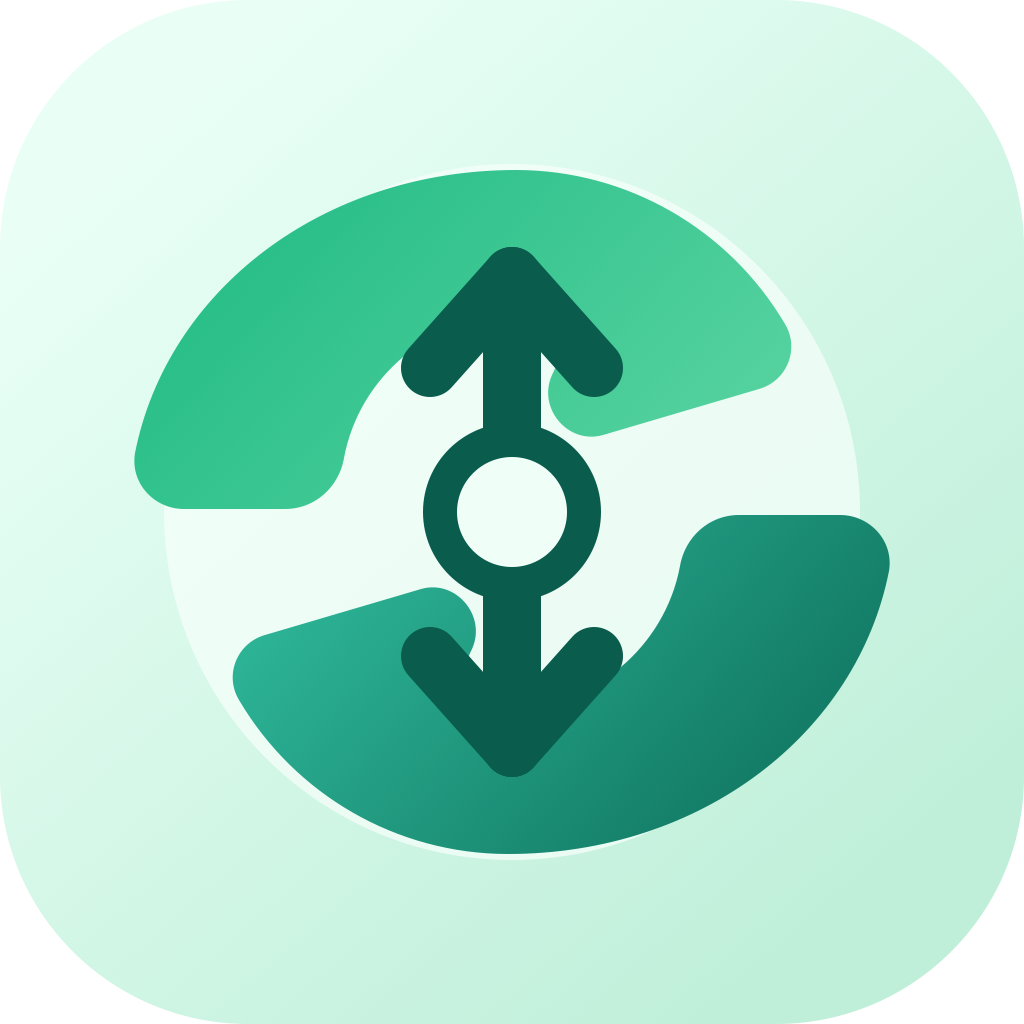
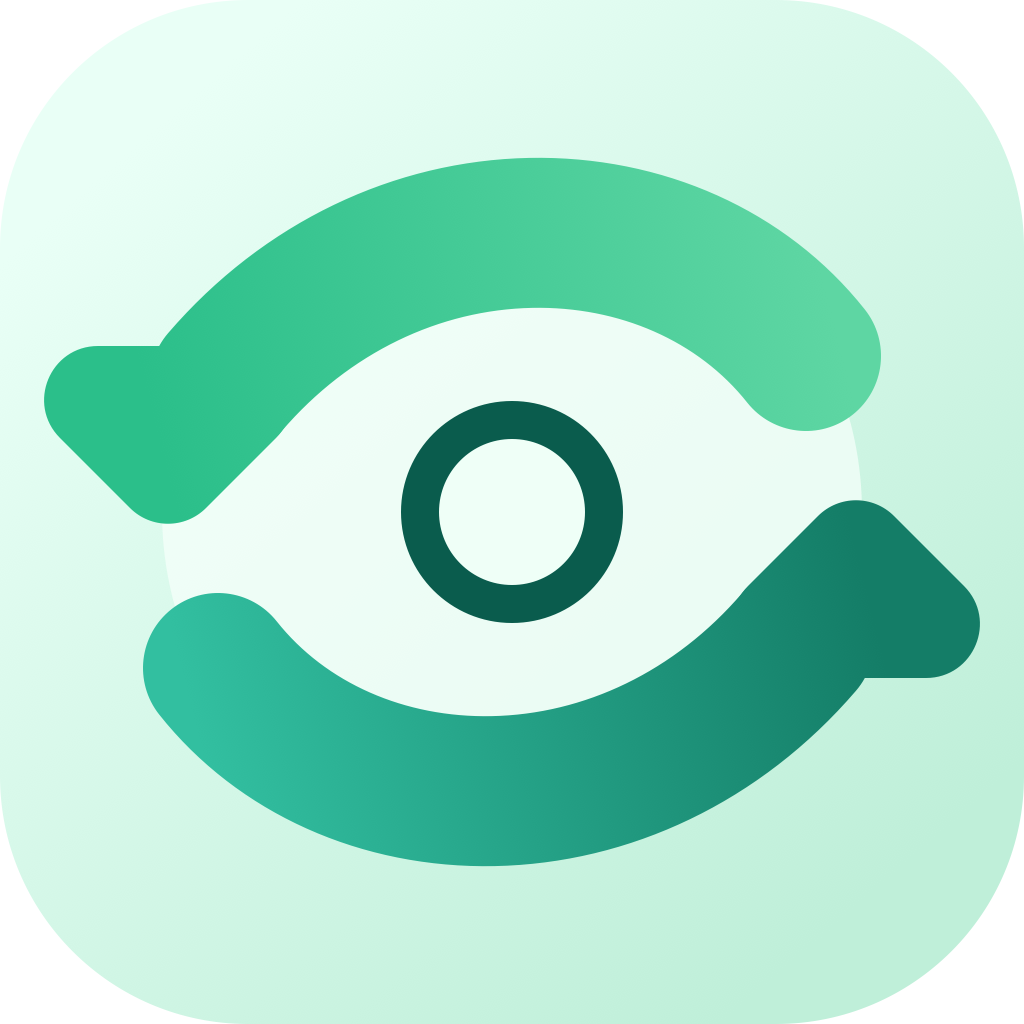
Update brand mark to horizontal transfer arrows

diff --git a/README.md b/README.md
@@ -81,4 +81,4 @@ PC/macOS/Windows, 모바일 네이티브, 웹앱/PWA 선택지는 [docs/platform
 
 ## 디자인 콘셉트
 
-앱 아이콘과 UI 색상 체계는 [docs/brand-design.md](docs/brand-design.md)에 정리했습니다. 기본 컨셉은 연한 초록색 둥근 아이콘, 태극형 양방향 흐름, 위/아래 화살표입니다.
+앱 아이콘과 UI 색상 체계는 [docs/brand-design.md](docs/brand-design.md)에 정리했습니다. 기본 컨셉은 연한 초록색 둥근 아이콘, 상단 우측에서 좌측으로 흐르는 화살표, 하단 좌측에서 우측으로 흐르는 화살표가 반반 맞물린 태극형 전송 마크입니다.
